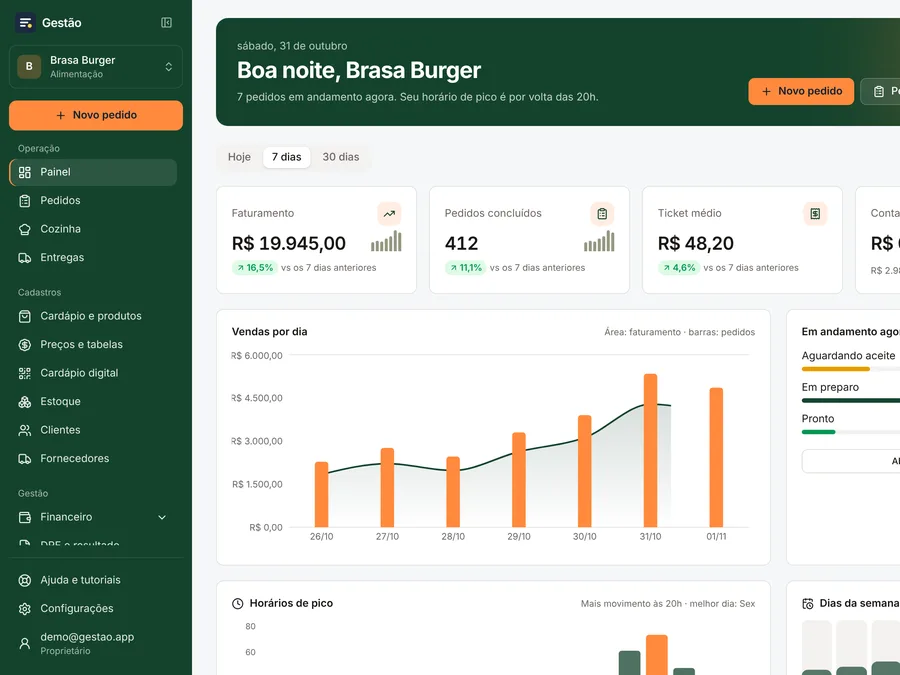
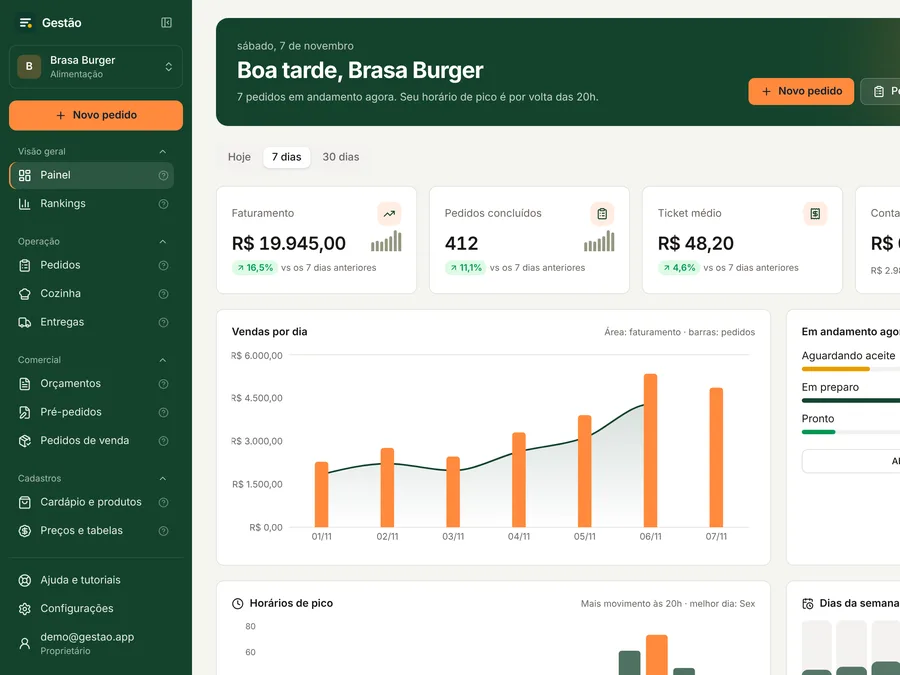
feat: atualiza gestão platform no portfólio
Claude-Session: https://claude.ai/code/session_01NMebcecVfraXbCewiCHhKf

diff --git a/src/projects.ts b/src/projects.ts
@@ -2,7 +2,7 @@ export type Category = 'Todos' | 'Aplicações' | 'Sites & e-commerce';
 export interface Project { name: string; kind: string; category: Exclude<Category, 'Todos'>; description: string; detail: string; stack: string[]; repo?: string; url?: string; preview?: string; accent: string; development?: boolean }
 const gh = 'https://github.com/allancorreaz/';
 export const projects: Project[] = [
- { name: 'Gestão Platform', kind: 'ERP multiempresa (SaaS)', category: 'Aplicações', description: 'ERP modular para pequenos negócios: PDV, cardápio digital, orçamentos, estoque com WMS, financeiro, DRE e notas fiscais.', detail: 'SaaS multiempresa idealizado e desenvolvido por mim para lanchonetes, lojas, material de construção e serviços. Regras de negócio no PostgreSQL com RLS e funções SECURITY DEFINER: preço, estoque, financeiro e numeração fiscal nunca vêm do navegador. Formação de preço com markup, tabelas de preço, parcelamento em 12x por bandeira, importação por planilha, transferências entre empresas, NF-e/NFC-e/NFS-e validadas antes do envio e 66 testes automatizados com Postgres em memória. Infraestrutura a custo zero (Supabase, Cloudflare Pages, GitHub Actions). O código é privado; o repositório traz documentação completa e imagens com dados fictícios.', stack: ['React', 'TypeScript', 'PostgreSQL', 'Supabase', 'Tailwind'], repo: gh+'gestao-plataform-public', url: 'https://gestao-plataform.pages.dev', preview: '/previews/gestao.webp', accent: '#d6e2d8' },
+ { name: 'Gestão Platform', kind: 'ERP multiempresa (SaaS)', category: 'Aplicações', description: 'ERP por assinatura para o comércio de bairro: caixa, pedidos com agenda, cardápio e catálogo digital, WhatsApp automático, estoque com WMS, financeiro, DRE e notas fiscais.', detail: 'SaaS multiempresa idealizado e desenvolvido por mim para lanchonetes, lojas, material de construção e serviços. Regras de negócio no PostgreSQL com RLS e funções SECURITY DEFINER: preço, estoque, financeiro e numeração fiscal nunca vêm do navegador. Formação de preço com markup, tabelas de preço, parcelamento em 12x por bandeira, importação por planilha, transferências entre empresas, NF-e/NFC-e/NFS-e validadas antes do envio, avisos de pedido pelo WhatsApp, comprovante não fiscal, assinatura recorrente no Asaas com renovação automática por webhook idempotente, painel de assinaturas para o administrador e 83 testes automatizados com Postgres em memória. Infraestrutura a custo zero (Supabase, Cloudflare Pages, GitHub Actions). O código é privado; o repositório traz documentação completa e imagens com dados fictícios.', stack: ['React', 'TypeScript', 'PostgreSQL', 'Supabase', 'Tailwind'], repo: gh+'gestao-plataform-public', url: 'https://gestao-plataform.pages.dev', preview: '/previews/gestao.webp', accent: '#d6e2d8' },
  { name: 'Gario', kind: 'Gestão de garantias', category: 'Aplicações', description: 'Painel web que lê planilhas de garantia do Google Drive e mostra indicadores, alertas e o que mudou em cada processo.', detail: 'Sistema interno em produção, idealizado e desenvolvido por mim. Sincroniza as planilhas a cada minuto em modo somente leitura, valida cada leitura, guarda histórico e alterações campo a campo, e entrega indicadores, rankings clicáveis, filtros por coluna e acesso por loja. Três containers Docker endurecidos, login com sessão HttpOnly e validação contínua planilha × banco. O código é privado; o repositório traz documentação completa e imagens com dados fictícios.', stack: ['React', 'TypeScript', 'Node.js', 'SQLite', 'Docker'], repo: gh+'Gario-garantias', preview: '/previews/gario.webp', accent: '#e7d6c8' },
  { name: 'Nexora AI', kind: 'Assistente local', category: 'Aplicações', description: 'Chat com IA local, histórico de conversas e integração entre interface e API.', detail: 'Projeto pessoal com Next.js, FastAPI e Ollama. Inclui histórico no navegador, respostas em Markdown, leitura temporária de documentos e testes de API. A busca em documentos com RAG está planejada.', stack: ['Next.js', 'FastAPI', 'Ollama'], repo: gh+'Nexora-AI', accent: '#dfd7c3', development: true },
  { name: 'Neuraw', kind: 'E-commerce', category: 'Sites & e-commerce', description: 'Participação no desenvolvimento e personalização de uma loja de suplementos na Shopify.', detail: 'Projeto comercial com personalização de interface em Shopify, utilizando Liquid, HTML, CSS e JavaScript.', stack: ['Shopify', 'Liquid', 'JavaScript'], url: 'https://www.neuraw.com.br', preview: '/previews/neuraw.webp', accent: '#dedfcf' },
